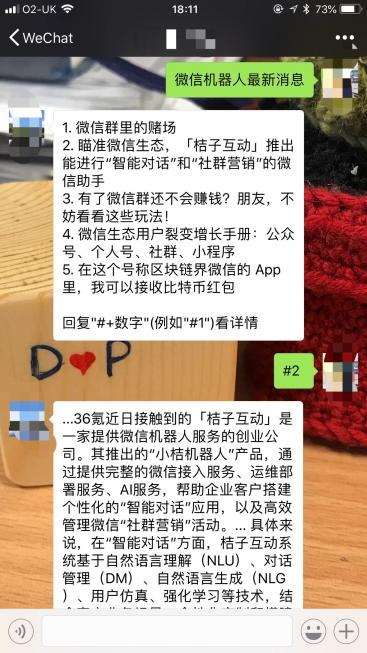
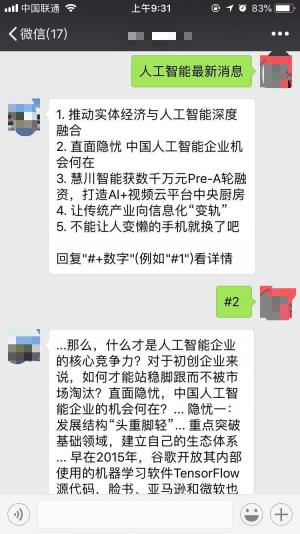
final refine

diff --git a/_posts/2018-08-05-wechaty-xiaoli.md b/_posts/2018-08-05-wechaty-xiaoli.md
@@ -233,10 +233,10 @@ async function onLogin(user) {
 
 以基本的资讯接口为例：用户可以指定任意关键词，小理的接口能够返回和关键词相关的最新新闻。
 
-例如，如果想要查询和"微信机器人"相关的最新新闻，可以向小理的搜索接口地址```https://api.xiaoli.ai/v1/api/search/basic```发送包含如下数据的post请求：
+例如，如果想要查询和"人工智能"相关的最新新闻，可以向小理的搜索接口地址```https://api.xiaoli.ai/v1/api/search/basic```发送包含如下数据的post请求：
 ```
 {
-	"keywords": ["微信机器人"],
+	"keywords": ["人工智能"],
 	"token": "45d898b459b4a739474175657556249a"
 }
 ```
@@ -246,21 +246,21 @@ async function onLogin(user) {
     "data": {
         "contents": [
             {
-                "img_url": "https://img.xiaolizhuli.com/get/070b35d5-2ed8-4a28-912b-aa845fd65818uuid-name176_4715385_4c8d32f1f1ac4477f9a9891e48463d43.jpg",
-                "news_abstract": "...组建微信群后，群里有300人左右，每把参与的人有30多人。黄明找了“护群人员”充当“门神”，如果有人在群里捣乱，“门神”就负责将捣乱的人踢出群聊。作为组织者，黄明有时候也会在微信群里“玩几把”。... 黄明逐渐发现，微信群里赌博的输赢越来越大，“以前是30元起押，2000元封顶，现在是3000元封顶”。而团队也越来越大，除了之前带过去的几个人，他们又专门招聘了一批人，互相之间分工也更加明确。... “门神”“拉手”都是这个团队里的角色，30多人的团队还有后勤管理、财务、“发包手”“赌托”“兑奖”“机器人”等10多个职位，每个职位都有相应成员分两组在24小时内轮班值守。",
-                "pub_date": "2018-07-31T07:19:10.187461",
+                "img_url": "",
+                "news_abstract": "...在韩国，政府在2018年提出将在未来5年内投资2.2万亿韩元(约合130亿元人民币)用于开发核心人工智能技术，并且计划在2022年前成为该领域的全球巨头。因此，全球人工智能已经进入加速发展期，主要国家争先在人工智能领域进行布局。未来，人工智能的发展将形成国家竞争的新分水岭，将成为世界主要国家产业博弈的核心阵地。新时代我国必须树立实体经济发展的新理念，深化人工智能技术在实体经济中的广泛应用，实现实体经济与人工智能的深度融合。",
+                "pub_date": "2018-08-13T08:36:57.950927",
                 "seed_title": "中国网",
-                "title": "微信群里的赌场",
-                "url": "https://base.xiaoli.ai/item/070b35d5-2ed8-4a28-912b-aa845fd65818?app_uuid=a6b1ff0c-3d9d-4d44-acf5-38d05868eed6"
+                "title": "推动实体经济与人工智能深度融合",
+                "url": "https://base.xiaoli.ai/item/7b8803dc-1bab-43ba-a824-7db94c7a8cb2?app_uuid=516e44a5-06d0-403b-ab31-4a193c564cb4"
             },
             {
                 "img_url": "",
-                "news_abstract": "...36氪近日接触到的「桔子互动」是一家提供微信机器人服务的创业公司。其推出的“小桔机器人”产品，通过提供完整的微信接入服务、运维部署服务、AI服务，帮助企业客户搭建个性化的“智能对话”应用，以及高效管理微信“社群营销”活动。... 具体来说，在“智能对话”方面，桔子互动系统基于自然语言理解（NLU）、对话管理（DM）、自然语言生成（NLG）、用户仿真、强化学习等技术，结合客户业务场景，个性化定制和搭建整套对话系统。",
-                "pub_date": "2018-07-20T10:57:48.222151",
-                "seed_title": "36氪",
-                "title": "瞄准微信生态，「桔子互动」推出能进行“智能对话”和“社群营销”的微信助手",
-                "url": "https://base.xiaoli.ai/item/0d083870-a29f-446e-be6c-8a683f2488c1?app_uuid=a6b1ff0c-3d9d-4d44-acf5-38d05868eed6"
-            }
+                "news_abstract": "...那么，什么才是人工智能企业的核心竞争力？对于初创企业来说，如何才能站稳脚跟而不被市场淘汰？直面隐忧，中国人工智能企业的机会何在？... 隐忧一：发展结构“头重脚轻”... 重点突破基础领域，建立自己的生态体系... 早在2015年，谷歌开放其内部使用的机器学习软件TensorFlow源代码，脸书、亚马逊和微软也纷纷发布其工程师用于机器学习的开源软件。似乎AI进入了“免费原材料”时代，人人都可以顺手取材。但是，“国外的开源布局对于我国AI行业发展而言，埋藏着巨大隐患。”远望智库人工智能事业部部长、图灵机器人首席战略官谭茗洲指出。",
+                "pub_date": "2018-08-13T08:24:15.201051",
+                "seed_title": "人民网",
+                "title": "直面隐忧 中国人工智能企业机会何在",
+                "url": "https://base.xiaoli.ai/item/0ae5b7d2-a52f-4fef-9fc3-7296aec45ad0?app_uuid=516e44a5-06d0-403b-ab31-4a193c564cb4"
+            },
             ...
         ],
         ...
